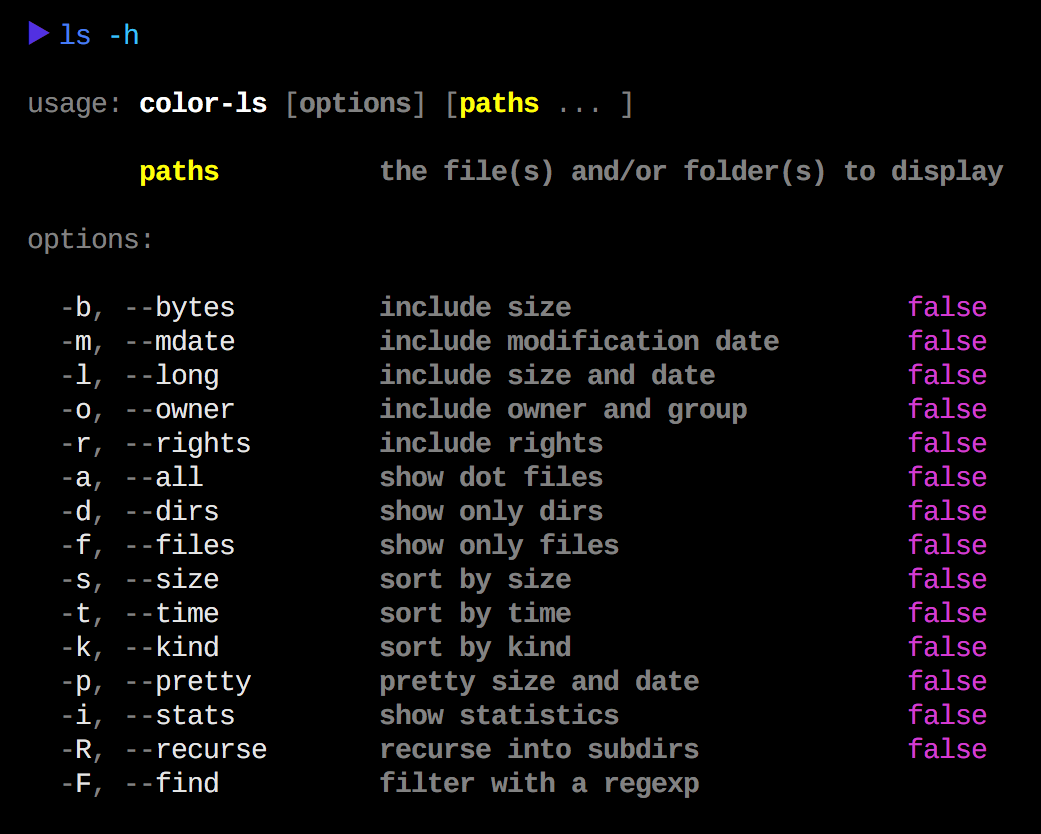
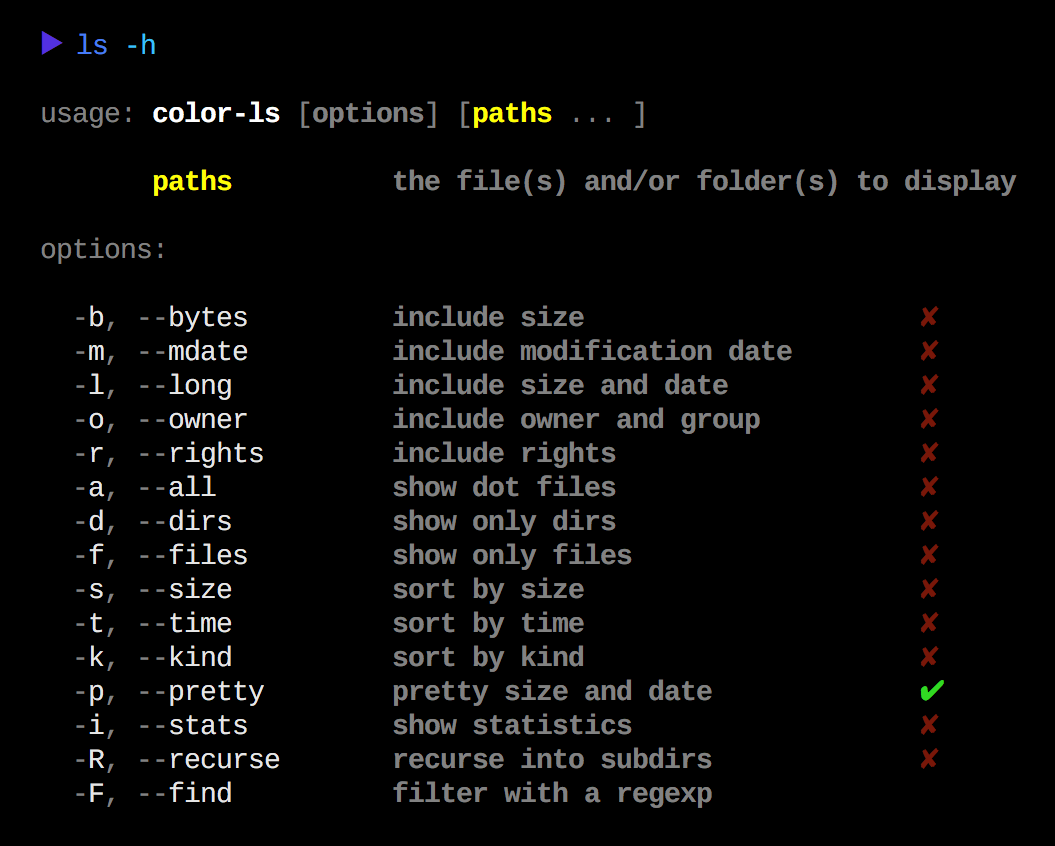
readme

diff --git a/js/color-ls.js b/js/color-ls.js
@@ -100,7 +100,7 @@
   000   000  000   000   0000000   0000000
    */
 
-  args = require('karg')("color-ls\n    paths    . ? the file(s) and/or folder(s) to display . **\n    bytes    . ? include size                 . = false \n    mdate    . ? include modification date    . = false              \n    long     . ? include size and date        . = false          \n    owner    . ? include owner and group      . = false            \n    rights   . ? include rights               . = false   \n    all      . ? show dot files               . = false   \n    dirs     . ? show only dirs               . = false   \n    files    . ? show only files              . = false    \n    size     . ? sort by size                 . = false \n    time     . ? sort by time                 . = false \n    kind     . ? sort by kind                 . = false \n    pretty   . ? pretty size and date         . = false         \n    stats    . ? show statistics              . = false . - i\n    recurse  . ? recurse into subdirs         . = false . - R\n    find     . ? filter with a regexp                   . - F\n    \nversion      " + (require(__dirname + "/../package.json").version) + "    ");
+  args = require('karg')("color-ls\n    paths    . ? the file(s) and/or folder(s) to display . **\n    bytes    . ? include size                 . = false \n    mdate    . ? include modification date    . = false              \n    long     . ? include size and date        . = false          \n    owner    . ? include owner and group      . = false            \n    rights   . ? include rights               . = false   \n    all      . ? show dot files               . = false   \n    dirs     . ? show only dirs               . = false   \n    files    . ? show only files              . = false    \n    size     . ? sort by size                 . = false \n    time     . ? sort by time                 . = false \n    kind     . ? sort by kind                 . = false \n    pretty   . ? pretty size and date         . = true         \n    stats    . ? show statistics              . = false . - i\n    recurse  . ? recurse into subdirs         . = false . - R\n    find     . ? filter with a regexp                   . - F\n    \nversion      " + (require(__dirname + "/../package.json").version) + "    ");
 
   if (args.size) {
     args.files = true;

diff --git a/README.md b/README.md
@@ -1,28 +1,27 @@
-# color-ls
 
-... has a sane set of options: 
+![icon](./img/icon.png)
 
-![usage](https://raw.githubusercontent.com/monsterkodi/color-ls/master/img/usage.png)
+![example01](./img/example01.png)
 
-... and produces output like this: 
+### usage
 
-![example01](https://raw.githubusercontent.com/monsterkodi/color-ls/master/img/example01.png)
+![usage](./img/usage.png)
 
-... recursion works as well:
+### recursion
 
-![example02](https://raw.githubusercontent.com/monsterkodi/color-ls/master/img/example02.png)
+![example02](./img/example02.png)
 
-... also finds files:
+### find files
 
-![example02](https://raw.githubusercontent.com/monsterkodi/color-ls/master/img/example03.png)
+![example02](./img/example03.png)
 
-## Installation
+### install
 
 ```shell
 npm install -g color-ls
 ```
 
-## Notes
+### notes
 
 * needs a terminal with 256 colors
 * currently optimized for dark backgrounds only
